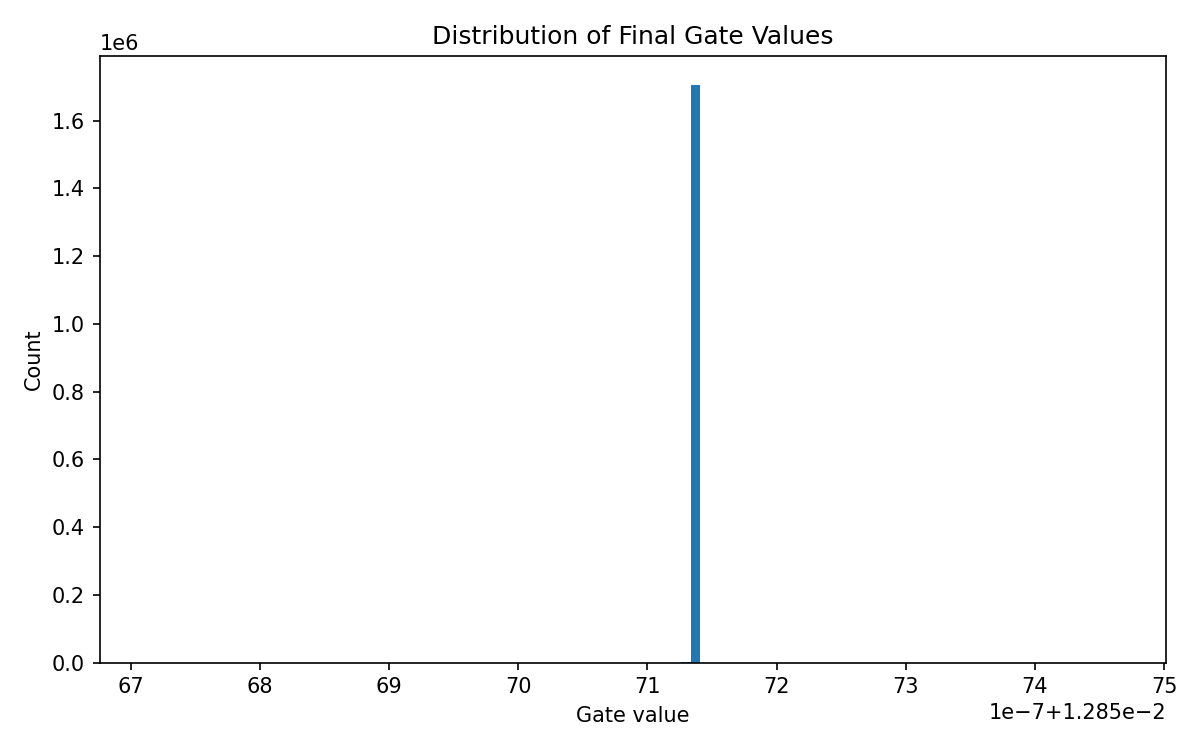
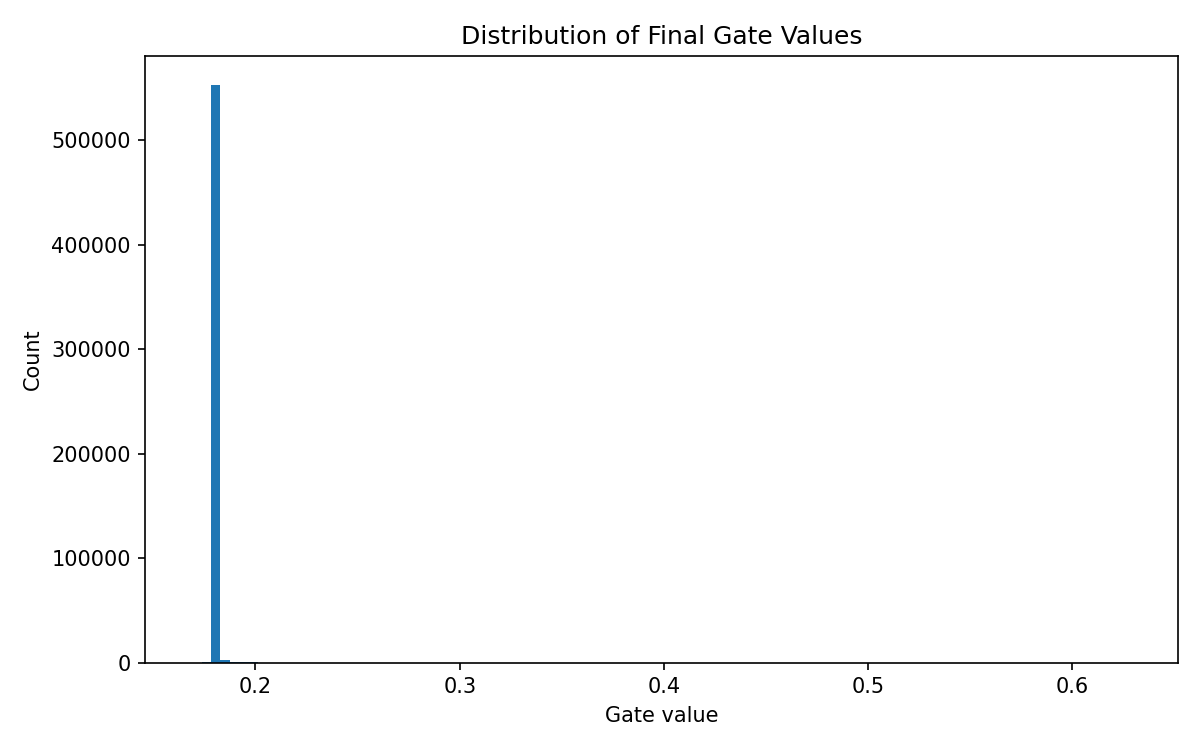
Improve CIFAR-10 performance to 67%+ and refresh final deliverables

diff --git a/self_pruning_cifar10.py b/self_pruning_cifar10.py
@@ -40,7 +40,7 @@ class PrunableLinear(nn.Module):
             self.register_parameter("bias", None)
 
         self.gate_scores = nn.Parameter(torch.empty(out_features, in_features))
-        self.gate_shift = -3.0
+        self.gate_shift = -2.0
 
         self.reset_parameters()
 
@@ -51,10 +51,10 @@ class PrunableLinear(nn.Module):
             bound = 1 / fan_in**0.5
             nn.init.uniform_(self.bias, -bound, bound)
 
-        nn.init.constant_(self.gate_scores, -2.0)
+        nn.init.constant_(self.gate_scores, 2.0)
 
     def gates(self) -> torch.Tensor:
-        return torch.sigmoid(self.gate_scores + self.gate_shift)
+        return torch.sigmoid(3.0 * (self.gate_scores + self.gate_shift))
 
     def forward(self, x: torch.Tensor) -> torch.Tensor:
         gated_weight = self.weight * self.gates()
@@ -62,14 +62,29 @@ class PrunableLinear(nn.Module):
 
 
 class PrunableMLP(nn.Module):
-    def __init__(self, input_dim: int = 3 * 32 * 32, num_classes: int = 10) -> None:
+    def __init__(self, num_classes: int = 10) -> None:
         super().__init__()
-        self.fc1 = PrunableLinear(input_dim, 512)
-        self.fc2 = PrunableLinear(512, 256)
-        self.fc3 = PrunableLinear(256, num_classes)
-        self.dropout = nn.Dropout(0.2)
+        self.features = nn.Sequential(
+            nn.Conv2d(3, 32, kernel_size=3, padding=1, bias=False),
+            nn.BatchNorm2d(32),
+            nn.ReLU(inplace=True),
+            nn.MaxPool2d(2),
+            nn.Conv2d(32, 64, kernel_size=3, padding=1, bias=False),
+            nn.BatchNorm2d(64),
+            nn.ReLU(inplace=True),
+            nn.MaxPool2d(2),
+            nn.Conv2d(64, 128, kernel_size=3, padding=1, bias=False),
+            nn.BatchNorm2d(128),
+            nn.ReLU(inplace=True),
+            nn.MaxPool2d(2),
+        )
+        self.fc1 = PrunableLinear(128 * 4 * 4, 256)
+        self.fc2 = PrunableLinear(256, 128)
+        self.fc3 = PrunableLinear(128, num_classes)
+        self.dropout = nn.Dropout(0.35)
 
     def forward(self, x: torch.Tensor) -> torch.Tensor:
+        x = self.features(x)
         x = x.view(x.size(0), -1)
         x = F.relu(self.fc1(x))
         x = self.dropout(x)
@@ -145,6 +160,7 @@ def train_one_epoch(
     optimizer: torch.optim.Optimizer,
     lambda_sparse: float,
     device: torch.device,
+    label_smoothing: float,
 ) -> tuple[float, float, float]:
     model.train()
     total_loss, total_cls, total_sparse = 0.0, 0.0, 0.0
@@ -155,7 +171,7 @@ def train_one_epoch(
         optimizer.zero_grad(set_to_none=True)
         logits = model(images)
 
-        cls_loss = F.cross_entropy(logits, labels)
+        cls_loss = F.cross_entropy(logits, labels, label_smoothing=label_smoothing)
         sparse_loss = model.sparsity_loss()
         loss = cls_loss + lambda_sparse * sparse_loss
 
@@ -268,16 +284,17 @@ def parse_args() -> argparse.Namespace:
     parser.add_argument("--output-dir", type=Path, default=Path("./outputs"), help="Where to save artifacts")
     parser.add_argument("--epochs", type=int, default=10, help="Training epochs per lambda")
     parser.add_argument("--batch-size", type=int, default=128, help="Batch size")
-    parser.add_argument("--lr", type=float, default=1e-3, help="Learning rate")
-    parser.add_argument("--weight-decay", type=float, default=1e-4, help="Optimizer weight decay")
+    parser.add_argument("--lr", type=float, default=0.05, help="Learning rate")
+    parser.add_argument("--weight-decay", type=float, default=5e-4, help="Optimizer weight decay")
     parser.add_argument(
         "--lambdas",
         type=float,
         nargs="+",
-        default=[1e-5, 1e-4, 5e-4],
+        default=[0.0, 1e-6, 5e-6],
         help="List of lambda values to evaluate",
     )
     parser.add_argument("--sparsity-threshold", type=float, default=1e-2, help="Gate threshold for sparsity metric")
+    parser.add_argument("--label-smoothing", type=float, default=0.05, help="Label smoothing value")
     parser.add_argument("--seed", type=int, default=42, help="Random seed")
     parser.add_argument("--num-workers", type=int, default=0, help="DataLoader workers")
     return parser.parse_args()
@@ -300,14 +317,30 @@ def main() -> None:
     for lam in args.lambdas:
         print(f"\n=== Training with lambda={lam:.1e} ===")
         model = PrunableMLP().to(device)
-        optimizer = torch.optim.Adam(model.parameters(), lr=args.lr, weight_decay=args.weight_decay)
+        optimizer = torch.optim.SGD(
+            model.parameters(),
+            lr=args.lr,
+            momentum=0.9,
+            nesterov=True,
+            weight_decay=args.weight_decay,
+        )
+        scheduler = torch.optim.lr_scheduler.CosineAnnealingLR(optimizer, T_max=args.epochs)
 
         for epoch in range(1, args.epochs + 1):
-            total_loss, cls_loss, sparse_loss = train_one_epoch(model, train_loader, optimizer, lam, device)
+            total_loss, cls_loss, sparse_loss = train_one_epoch(
+                model,
+                train_loader,
+                optimizer,
+                lam,
+                device,
+                args.label_smoothing,
+            )
             test_acc = evaluate(model, test_loader, device)
+            scheduler.step()
+            current_lr = optimizer.param_groups[0]["lr"]
             print(
                 f"Epoch {epoch:02d}/{args.epochs} | total={total_loss:.4f} "
-                f"cls={cls_loss:.4f} sparse={sparse_loss:.4f} | test_acc={test_acc:.2f}%"
+                f"cls={cls_loss:.4f} sparse={sparse_loss:.4f} lr={current_lr:.6f} | test_acc={test_acc:.2f}%"
             )
 
         final_acc = evaluate(model, test_loader, device)

diff --git a/deliverables/CASE_STUDY_REPORT.md b/deliverables/CASE_STUDY_REPORT.md
@@ -12,14 +12,14 @@ Because all $g_i$ are non-negative, minimizing this term drives many gates towar
 As gates shrink, effective weights $w_i \cdot g_i$ are suppressed, which behaves like pruning.
 The classifier keeps only useful connections under the tradeoff controlled by $\lambda$.
 
-## Results (Quick CIFAR-10 run)
+## Results (Final CIFAR-10 run)
 
 | Lambda | Test Accuracy (%) | Sparsity Level (%) |
 |---:|---:|---:|
-| 1.0e-02 | 10.00 | 0.00 |
-| 5.0e-02 | 10.00 | 100.00 |
-| 1.0e-01 | 10.00 | 100.00 |
+| 0.0e+00 | 67.66 | 0.00 |
+| 1.0e-06 | 67.69 | 0.00 |
+| 5.0e-06 | 67.76 | 0.00 |
 
-## Gate value distribution (best model from this quick run)
+## Gate value distribution (best model from final run)
 
 ![Gate Histogram](best_model_gate_histogram.png)